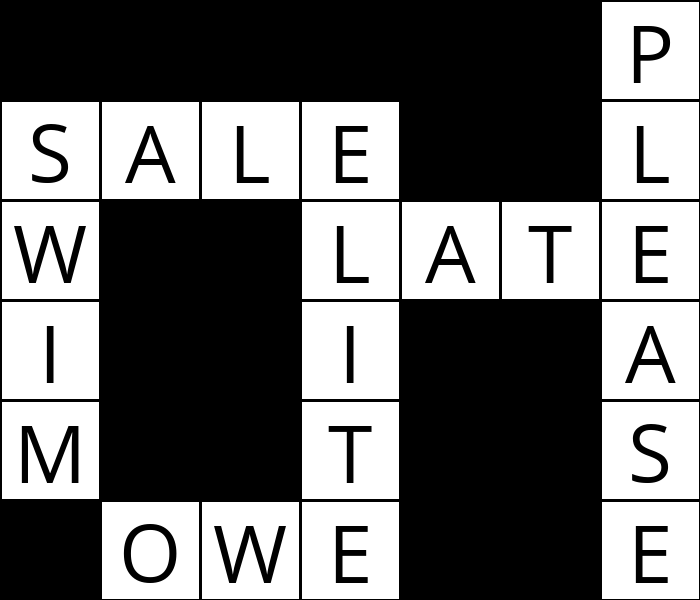
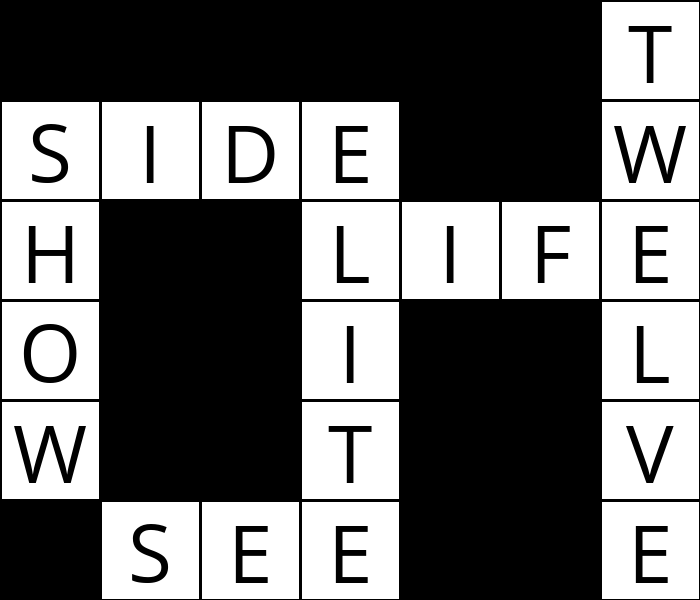
course revision

diff --git a/README.md b/README.md
@@ -1,14 +1,74 @@
-# CS50
-This repository is a personal space for consulting notes and projects developed during Harvard CS50 courses.
+# My CS50 Repository
+This repository is a personal space for consulting notes and projects created during Harvard CS50 courses.
 
-> **If you are consulting these as a CS50 student, keep in mind [Harvard's Academy Honesty Policy](https://cs50.harvard.edu/ai/2020/honesty/)**
+>  ⚠  **If you are consulting these as a CS50 student, keep in mind [Harvard's Academy Honesty Policy](https://cs50.harvard.edu/ai/2020/honesty/)**
 
-## Python - Introduction Programming
+---
+## 👩💻 [ CS50P ] PYTHON 
 https://cs50.harvard.edu/python/2022/
 (Completed in July 2023)
 
 **FINAL PROJECT:** [Dutchionary](https://imgabi.com/dutchionary)
+Dutchtionary is a Flask web-application powered by OpenAI API. 
+For the final assignment, I submitted a simple application running in the terminal.
 
-## Introduction to Artificial Intelligence
+<img src="static/python_dutchionary.png" width="75%" />
+___
+
+## 👩💻 [ CS50AI ] INTRODUCTION TO ARTIFICIAL INTELLIGENCE
 https://cs50.harvard.edu/ai/2020/
 (Currently enrolled)
+
+### Week 00: SEARCH
+
+**Topics covered:** Depth-first search, breath-first search, uninformed search, informed search, greedy best-first search, A* search, adversarial search, minimax, alpha-beta pruning, depth-limited minimax
+
+**PROJECT 01: DEGREES**
+Write a program that determines how many “degrees of separation” apart two actors are.
+
+<img src="static/week_0_degrees.png" width="75%" />
+
+**PROJECT 02: TIC-TAC-TOE**
+Using Minimax, implement an AI to play Tic-Tac-Toe optimally.
+<img src="static/week_0_tictactoe.png" width="75%" />
+
+----
+### Week 01: KNOWLEDGE
+
+**Topics covered:** Propositional logic, inference algorithms, de Morgan’s law, distributive property, inference by resolution
+
+**PROJECT 01: KNIGHTS**
+Write a program to solve logic puzzles.
+<img src="static/week_1_knights.png" width="75%" />
+
+**PROJECT 02: MINESWEEPER**
+Write an AI to play Minesweeper.
+<img src="static/week_1_minesweeper.png" width="75%" />
+
+----
+### Week 02: UNCERTAINTY
+
+**Topics covered:** Propositional logic, inference algorithms, de Morgan’s law, distributive property, inference by resolution
+
+**PROJECT 01: PAGERANK**
+Write an AI to rank web pages by importance.
+<img src="static/week_2_pagerank.png" width="75%" />
+
+**PROJECT 02: HEREDITY**
+Write an AI to assess the likelihood that a person will have a particular genetic trait.
+
+<img src="static/week_2_heredity.png" width="75%" />
+
+----
+
+### Week 03: OPTIMISATION
+
+**Topics covered:**  Problem formulation (local search, linear programming algorithms, constraint satisfaction), hill climbing (and variants), simulated annealing, backtracking search, inference
+
+**PROJECT 01: CROSSWORD**
+Write an AI to generate crossword puzzles.
+
+<img src="static/week_3_crossword.png" width="75%" />
+
+
+
